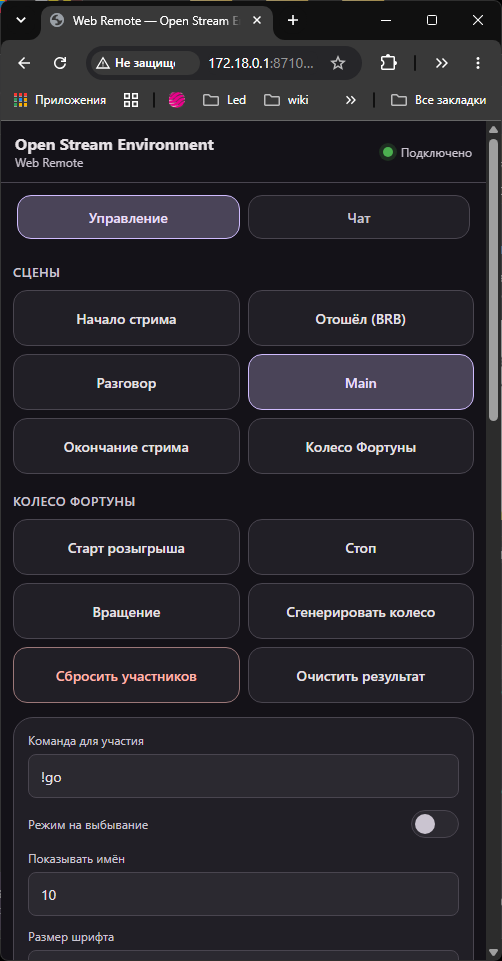
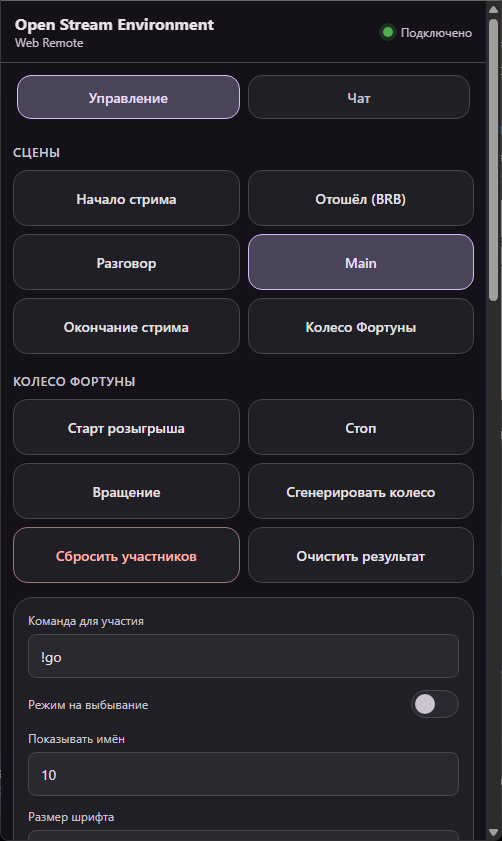
Drop expns and update the phone remote shots
Remove assets/img/expns.png and its gallery entry; the README count
follows.

The two phone remote screenshots are now cropped to 502x841 instead of
502x961, so the width/height hints in the gallery match the files.

diff --git a/index.html b/index.html
@@ -197,7 +197,6 @@
       <!-- alt-тексты написаны по именам файлов — поправьте под то, что на экранах -->
       <div class="shots">
         <img class="shot" src="assets/img/ed-3.png" alt="Экран редактора раскладки" loading="lazy" width="1919" height="1079">
-        <img class="shot" src="assets/img/expns.png" alt="Раскрытые разделы настроек" loading="lazy" width="1280" height="351">
         <img class="shot" src="assets/img/wheel-cfg.png" alt="Настройки Колеса Фортуны: розыгрыш и участники" loading="lazy" width="1920" height="1032">
         <img class="shot" src="assets/img/wheel-new.png" alt="Колесо Фортуны: псевдо-3D барабан" loading="lazy" width="1920" height="1031">
         <img class="shot" src="assets/img/poll.png" alt="Сцена голосования: живая диаграмма" loading="lazy" width="1920" height="1080">
@@ -205,8 +204,8 @@
         <img class="shot" src="assets/img/scene.png" alt="Полноэкранная сцена для OBS" loading="lazy" width="1920" height="1032">
         <img class="shot" src="assets/img/term.png" alt="Терминал логов в панели управления" loading="lazy" width="1920" height="1032">
         <img class="shot" src="assets/img/hud-mode.png" alt="Режим редактирования HUD поверх игры" loading="lazy" width="1919" height="1079">
-        <img class="shot shot--tall" src="assets/img/remote1.png" alt="Web Remote на телефоне: управление" loading="lazy" width="502" height="961">
-        <img class="shot shot--tall" src="assets/img/remote2.png" alt="Web Remote на телефоне: вкладка чата" loading="lazy" width="502" height="961">
+        <img class="shot shot--tall" src="assets/img/remote1.png" alt="Web Remote на телефоне: управление" loading="lazy" width="502" height="841">
+        <img class="shot shot--tall" src="assets/img/remote2.png" alt="Web Remote на телефоне: вкладка чата" loading="lazy" width="502" height="841">
       </div>
     </div>
   </section>

diff --git a/README.md b/README.md
@@ -33,7 +33,7 @@ assets/img/*.png               галерея в секции «Скриншот
 1. **Лицензия.** Везде указана GPL со ссылкой на файл `LICENSE` в репозитории приложения — в FAQ, блоке «Скачать», подвале и JSON-LD. Если файл называется иначе (`LICENSE.md`, `COPYING`) или у вас GPL-2.0 — поправьте ссылку и текст.
 2. **Ссылки уже проставлены** на `github.com/Halantar-git/open-stream-environment`: репозиторий, CHANGELOG, issues, `releases/latest` и README («Как установить»).
 3. **Адрес сайта.** В `canonical`, `og:url` и JSON-LD стоит `https://halantar-git.github.io/open-stream-environment/`, в `404.html` — `SITE_ROOT = '/open-stream-environment/'`. Если сайт будет в другом репозитории или на своём домене, поправьте эти четыре места; при своём домене `SITE_ROOT` должен стать `'/'` — сайт ляжет в корень.
-4. **Скриншоты.** Вставлены из приложения: в hero — `assets/img/main.png`, в галерее `#screens` — остальные 11. Вертикальные скриншоты пульта помечены `shot--tall`, чтобы не растягиваться на всю колонку.
+4. **Скриншоты.** Вставлены из приложения: в hero — `assets/img/main.png`, в галерее `#screens` — остальные 10. Вертикальные скриншоты пульта помечены `shot--tall`, чтобы не растягиваться на всю колонку.
    Alt-тексты написаны по именам файлов — вычитайте их в `index.html` и поправьте под фактические экраны.
 5. **Превью для соцсетей.** Положите `assets/img/og.png` (1200×630) и раскомментируйте `og:image` в `<head>`.
 6. **Политика конфиденциальности.** Единственная оставшаяся заглушка в подвале. Для сторов такая страница обычно обязательна — можно сделать `privacy.html` по образцу `404.html`.
